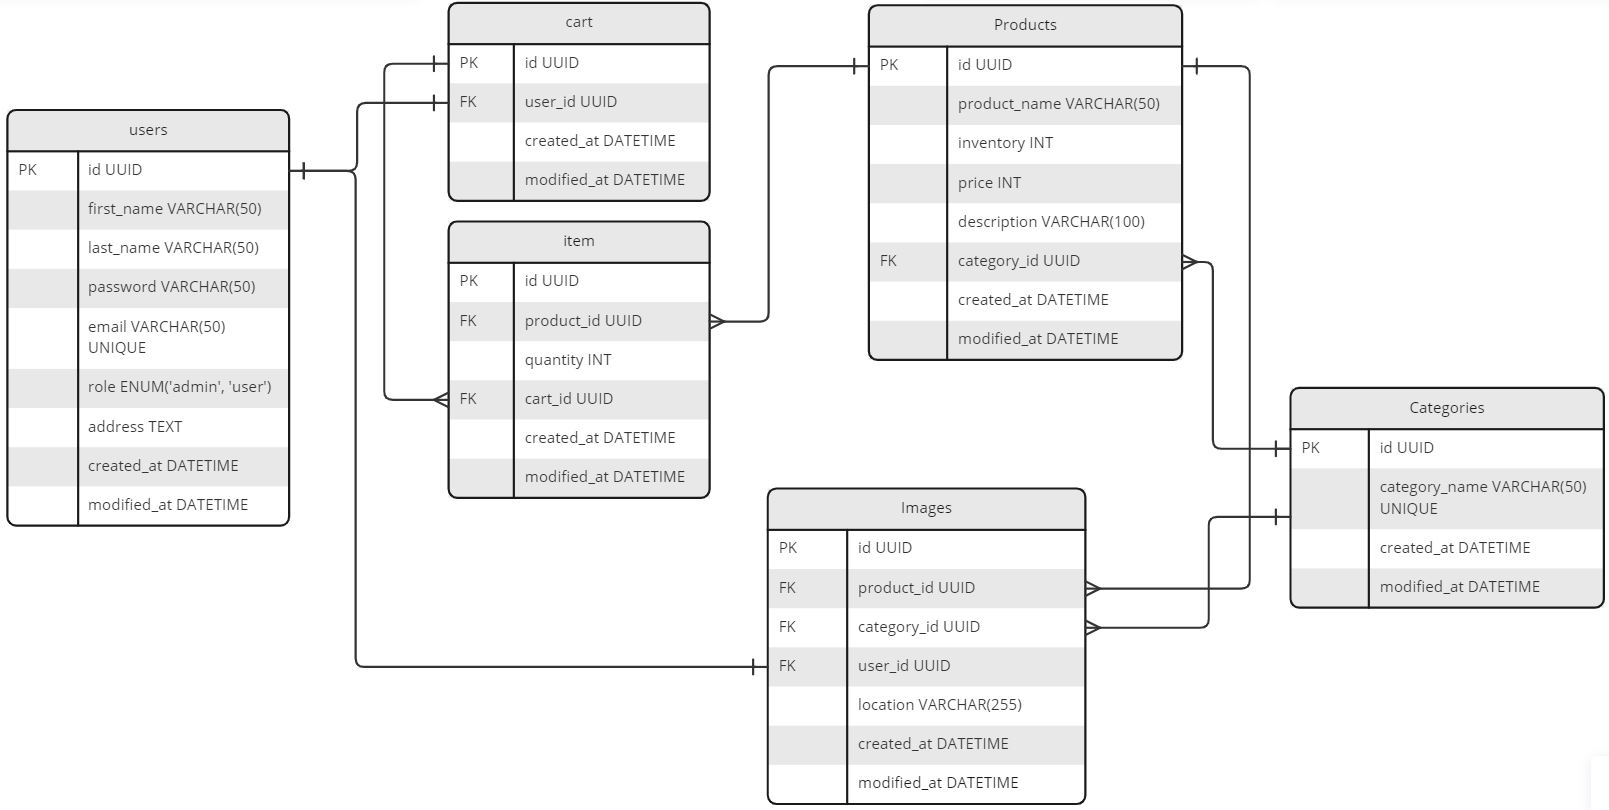
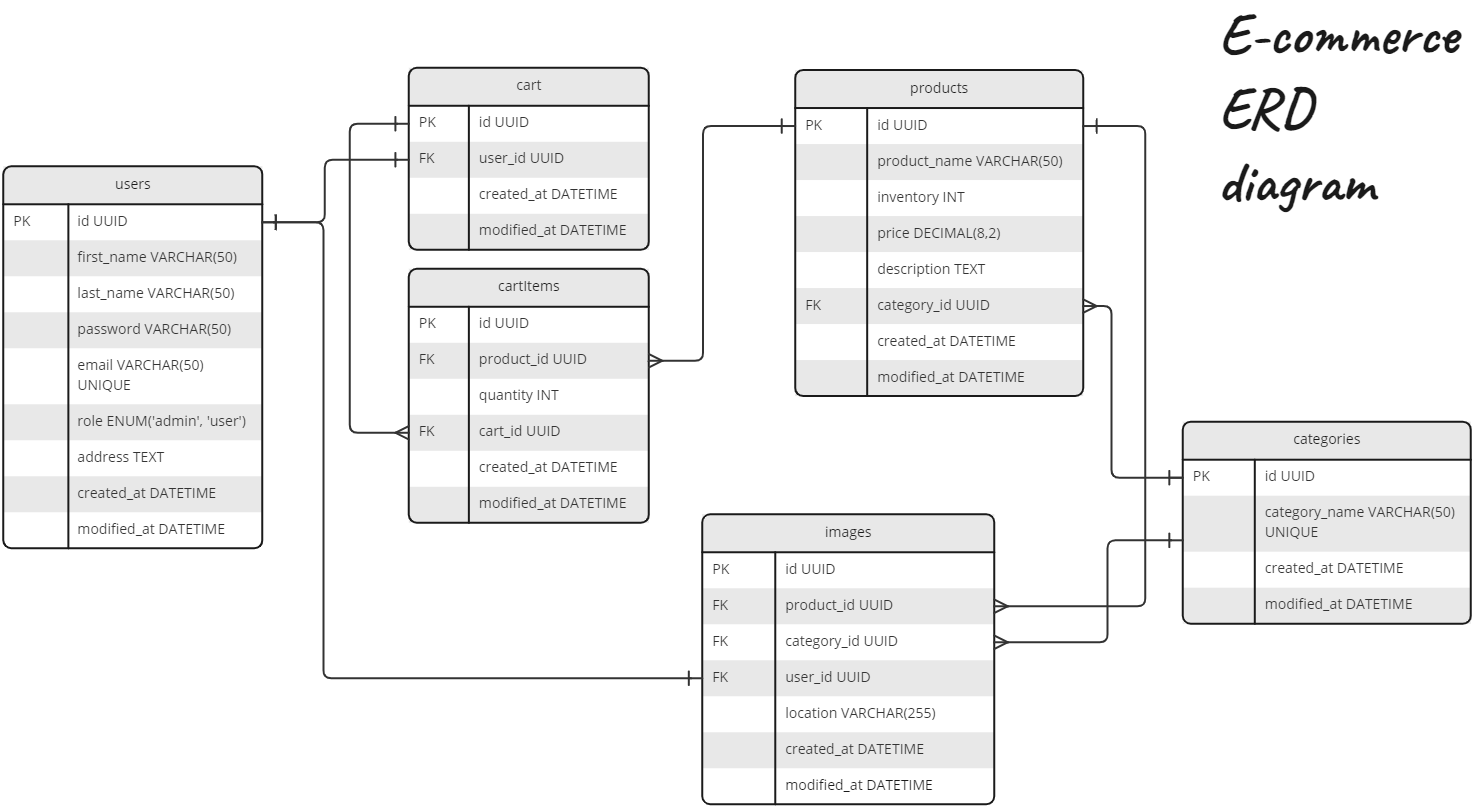
ERD: change type of price into DECIMAL

diff --git a/README.md b/README.md
@@ -59,41 +59,6 @@
 ]
 ```
 
-<<<<<<< HEAD
-Create a product
-[POST] /api/v1/products
-
-Update a single product
-[PUT] /api/v1/products/{id}
-
-Delete a single product
-[DELETE] /api/v1/products/{id}
-
-Get all products
-[GET] /api/v1/products
-
-Pagination for products
-[GET] /api/v1/products?offset={offset}&limit={limit}
-
-Sort all products based on {field} (can be first_name, last_name, etc.). It works with pagnation as well.
-[GET] /api/v1/products?sortBy={field}&sortOrder={order}
-
-Search for a product / user by date
-[GET] /api/v1/products?creation-date={dateFrom}
-[GET] /api/v1/products?creation-date={dateFrom}
-
-Filter products by price
-[GET] /api/v1/products?price={price}
-
-Filter products by price range
-[GET] /api/v1/products?price_min={minPrice}&price_max={maxPrice}
-
-Filter by category
-[GET] /api/v1/products?category_id={id}
-
-```
-#### Users
-=======
 #### Example:
 The following request will send a GET request to get the first 100 products sorted by price, ascending, from 10 EUR to 100 EUR.
 
@@ -133,28 +98,8 @@ Return the updated product with the same response from [GET].
 	 },
 	 ...,
 ]
->>>>>>> main
 ```
 
-<<<<<<< HEAD
-Get a single user
-[GET] /api/v1/users/{id}
-
-Create a user
-[POST] /api/v1/users
-
-Update a user
-[PUT] /api/v1/users/{id}
-
-Delete the user
-[DELETE] /api/v1/users/{id}
-
-Authenticate user and generate access token
-[POST] /api/v1/auth
-
-```
-#### Categories
-=======
 ### Get all users
 **[GET]** /api/users
 
@@ -184,7 +129,6 @@ Authenticate user and generate access token
 	},
 	...,
 ]
->>>>>>> main
 ```
 
 ### Create a user
